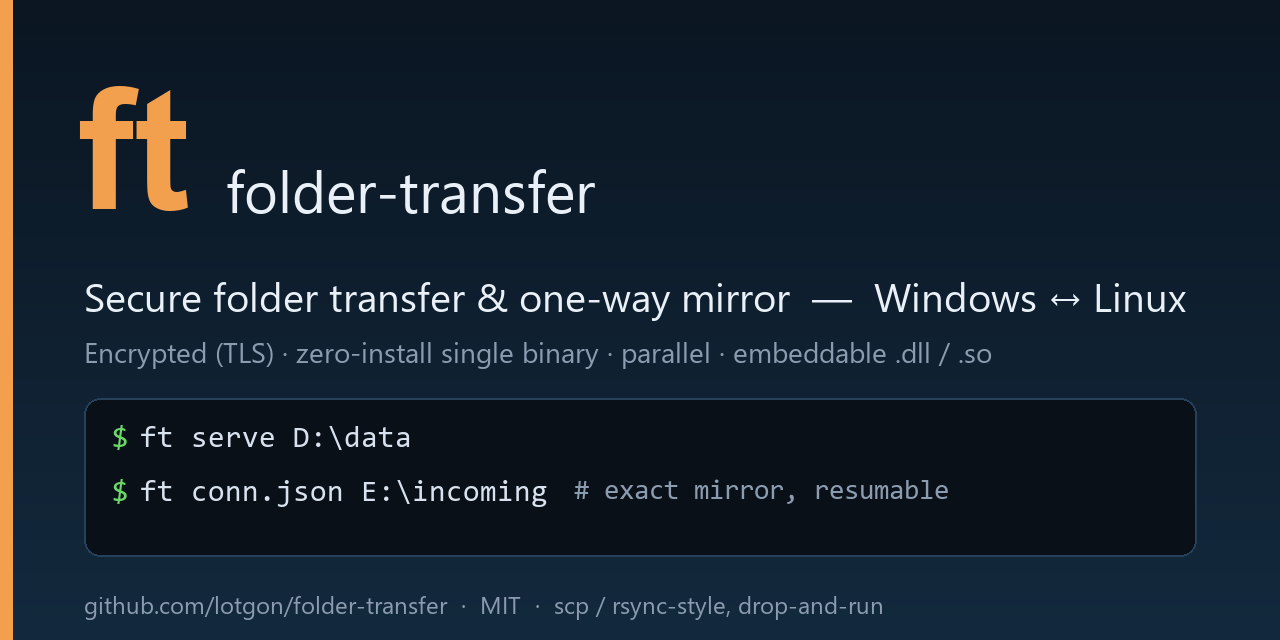
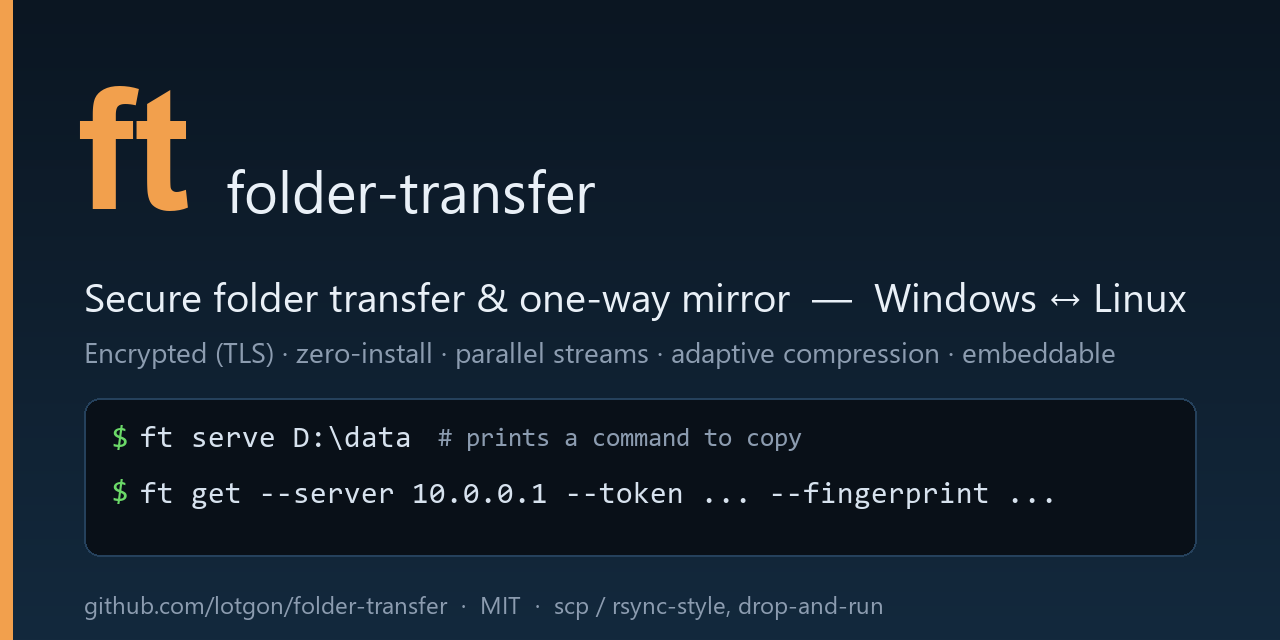
docs: receiver uses the printed command (not a JSON file); note disk-bound small files + adaptive compression
- Fix the receiver examples to the copy-the-printed-command form (ft get --server ... --token ...
  --fingerprint ...) instead of running a JSON file.
- Performance: mark small files as disk-bound and explain the 37% (receiver disk, not the link).
- Highlight adaptive compression (automatic on/off) as a distinct advantage: a "why people use it"
  bullet, a comparison-table row, and a Performance paragraph.
- Regenerate the banner to match (command-form receiver line; "adaptive compression" in the strap).

diff --git a/README.md b/README.md
@@ -18,15 +18,18 @@
 run it on the destination.
 
 ```bat
-ft serve D:\data                       ::  source: share a folder over TLS
-ft ft-download-data.json E:\incoming   ::  destination: pull it into an exact mirror
+:: SOURCE — share a folder; ft prints a ready-to-run command to copy:
+ft serve D:\data
+:: DESTINATION — paste that command (it asks where to save, or append a folder):
+ft get --server 10.0.0.1 --port 8722 --token <token> --fingerprint <fp>  E:\incoming
 ```
 
 **Why people use it**
 - 🔒 **Encrypted & safe by default** — TLS with a pinned certificate + a one‑time token; nothing is left behind. [Why it’s safe ↓](#why-its-safe)
 - 📦 **Zero install** — one ~3 MB static binary. No service, no dependencies, no admin (unless you let it open the firewall).
 - 🪞 **Exact mirror, resumable** — only changed files move; re‑run to catch up; a dropped transfer resumes.
-- 🚀 **Fast on bad links** — parallel streams for high‑latency WANs, small files bundled, compression only when it pays.
+- 🚀 **Fast on bad links** — parallel streams for high‑latency WANs; thousands of small files bundled into a few round‑trips.
+- 🧠 **Adaptive compression** — it figures out *by itself* when compressing is faster and when it isn’t (decided per block); never wastes CPU on fast links or already‑compressed data.
 - 🧩 **Embeddable** — call it straight from .NET / C / C++ via `ft.dll` / `libft.so`.
 
 A modern alternative to `scp`/`rsync` when you just need to **push a folder server‑to‑server**,
@@ -100,6 +103,7 @@ Windows ↔ Linux support. It’s *not* a continuous two‑way syncer like Synct
 | Resume after a drop | **yes** | no | yes | yes |
 | Many small files | **bundled** | slow | good | good |
 | High‑latency WAN | **parallel streams** | single stream | single stream | n/a |
+| Adaptive compression | **yes — automatic on/off** | no | `-z` (manual) | yes |
 | Live‑DB cutover | **yes** | no | no | no |
 | Byte‑level delta in one file | no | no | **yes** | yes |
 | Hash‑verified integrity | no (size+mtime) | n/a | optional | yes |
@@ -125,19 +129,19 @@ checksums, and **Syncthing** when you need always‑on two‑way sync.
    ```bat
    ft serve D:\data
    ```
-   It prints a highlighted, copy‑ready command (with the host, token and fingerprint baked in) and
-   writes the same as `download-scripts\ft-download-data.json`.
+   It prints a **highlighted, copy‑ready command** with the host, token and fingerprint baked in —
+   that command *is* what you carry to the other machine (treat the token as a secret).
 
-3. **On the machine that wants the data**, run that command (it asks where to save — Enter = current
-   folder), or pass a destination:
+3. **On the machine that wants the data**, paste that command. It asks where to save (Enter = the
+   current folder), or append a destination:
    ```bat
-   ft ft-download-data.json  E:\incoming
+   ft get --server 10.0.0.1 --port 8722 --token <token> --fingerprint <fp>  E:\incoming
    ```
-   The shared folder is recreated by name: `E:\incoming\data\…`.
+   The shared folder is recreated by name: `E:\incoming\data\…`. If the link drops, run it again — it resumes.
 
-You don’t even need a subcommand: **the first argument decides.** A folder or a server‑config `.json`
-→ serve; a connection file → receive (an optional second argument is the destination). `ft serve` /
-`ft get` still work explicitly, and flags (`--port`, `--once`, `--streams`, …) override anything.
+On the **source** you don’t even need a subcommand — `ft D:\data` or `ft sync.json` serves (the first
+argument decides). The **receiver** just runs the printed `ft get …` command. Flags (`--port`,
+`--once`, `--streams`, …) override anything.
 
 ## Many folders & ignoring — config file
 
@@ -166,8 +170,8 @@ fixed `folders` + ignore rules. You never re‑type the folders; you just run th
 receiver you only choose **where** it lands:
 
 ```bat
-ft nightly.json                          ::  source: serve the predefined folder set
-ft ft-download-nightly.json  E:\backup   ::  destination: pick where it goes
+ft nightly.json                                              ::  source: serve the predefined folder set
+ft get --server 10.0.0.1 --token <token> --fingerprint <fp>  E:\backup   ::  destination: choose where it lands
 ```
 
 **Ignore rules:** `log` = a file/folder named `log` at any depth · `log/` = a *folder* only ·
@@ -199,13 +203,24 @@ carried. Defaults (4 parallel streams + adaptive), over an emulated WAN at 0 ms 
 
 | data type | 20 Mbit | 20 Mbit +150ms | 100 Mbit | 100 Mbit +150ms | 200 Mbit | 200 Mbit +150ms |
 |---|---|---|---|---|---|---|
-| small files (10000 × 4 KB) | 96% | 92% | 55% | 56% | 37% | 31% |
+| small files (10000 × 4 KB) — *disk‑bound* | 96% | 92% | 55% | 56% | 37% | 31% |
 | large, incompressible (4 MB, random) | 96% | 92% | **99%** | **94%** | **99%** | **92%** |
 | large, compressible (4 MB, text 3.73×) | 232% | 212% | 294% | 236% | 296% | 193% |
 
+- **Small files** are limited by **file creation on the receiver’s disk** (filesystem metadata +
+  antivirus), *not* the link. That’s why the % falls on faster links — e.g. **37% at 200 Mbit** isn’t
+  `ft` being slow, it’s the disk: the link simply isn’t the bottleneck. (On Linux/ext4 with no
+  real‑time AV, the same files fly — see [BENCHMARKS-rust.md](BENCHMARKS-rust.md).)
 - **Incompressible** large files saturate fast links (94–99%).
 - **Compressible** data goes far above 100% — fewer bytes on the wire, more original data per second.
-- **Small files** are bound by file creation on the receiver (filesystem + antivirus), not the link.
+- **Adaptive compression** decides all of this for you — automatically (see below).
+
+**Adaptive compression — automatic, no flags.** `ft` measures, per block and per connection,
+whether compressing actually moves data *faster*, and compresses only when it does. On a fast link,
+or with already‑compressed data (`.zip`, `.jpg`, `.mp4`, …), it sends **raw** and wastes no CPU; on a
+slow link with compressible data it **packs** and beats the wire (the 200–290% rows above). You never
+pass `-z` or guess — the system figures out when to compress and when not to, on its own. (Force it
+off with `--no-compress` if you ever need to.)
 
 **Raw LAN throughput** (loopback, no link cap — the implementation’s own ceiling):
 